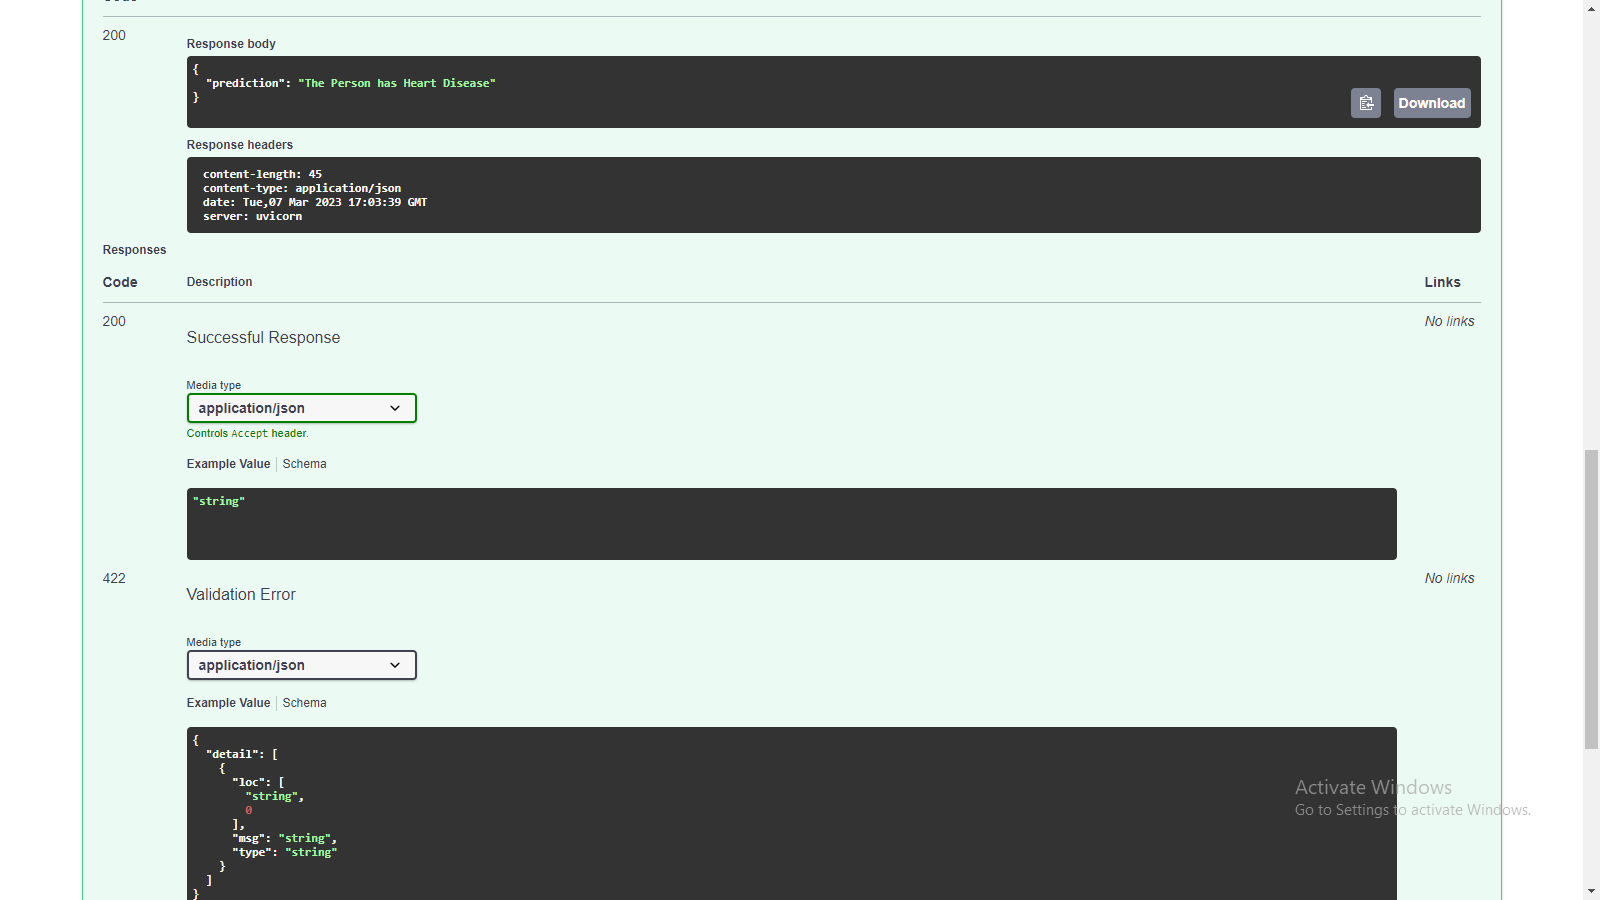
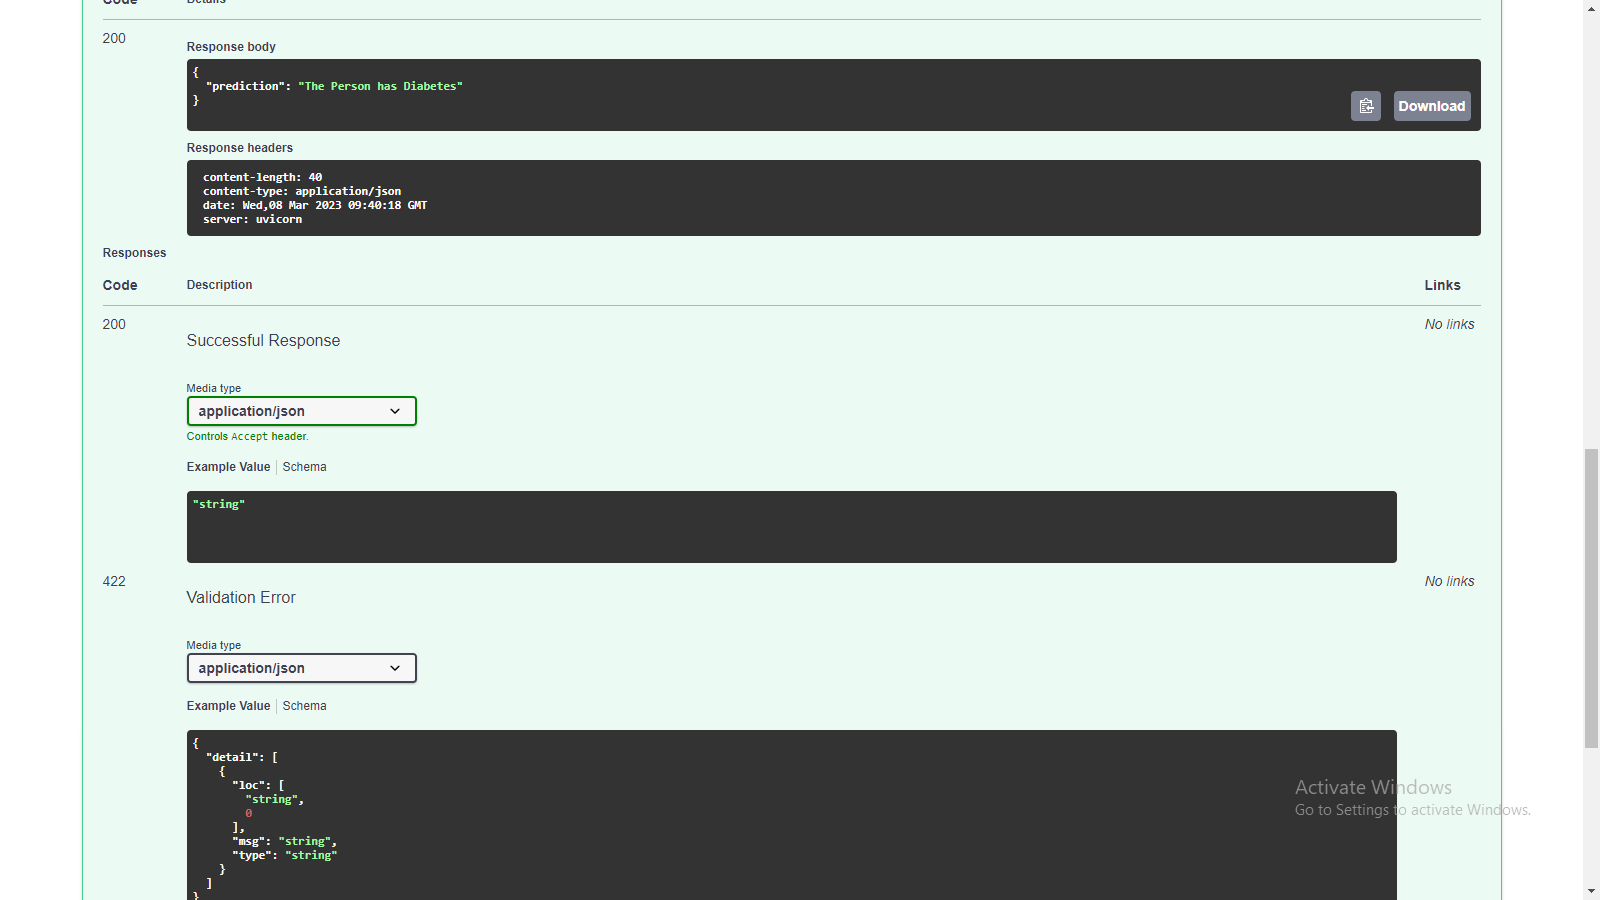
new Images added

diff --git a/PICKEL/app.py b/PICKEL/app.py
@@ -13,7 +13,7 @@ classifier=pickle.load(pickle_in)
 # 3. Index route, opens automatically on http://127.0.0.1:8000
 @app.get('/')
 def index():
-    return {'message': 'Hello, Welcome to the prediction page'}
+    return {'message': 'Hello, Welcome to the Diabetes prediction page'}
 
 # 4. Route with a single parameter, returns the parameter within a message
 #    Located at: http://127.0.0.1:8000/AnyNameHere
@@ -22,9 +22,9 @@ def index():
 #     return {'Welcome To medical domain ': f'{name}'}
 
 # 3. Expose the prediction functionality, make a prediction from the passed
-#    JSON data and return the predicted Bank Note with the confidence
+#    JSON data and return the predicted diabetes with the confidence
 @app.post('/predict')
-def heartdisease(data:diabetesPrediction):
+def Diabetes(data:diabetesPrediction):
     data = data.dict()
     Pregnancies = data['Pregnancies']
     Glucose = data['Glucose']
@@ -34,7 +34,7 @@ def heartdisease(data:diabetesPrediction):
     BMI = data['BMI']
     DiabetesPedigreeFunction = data['DiabetesPedigreeFunction']
     Age = data['Age']
-   # print(classifier.predict([[variance,skewness,curtosis,entropy]]))
+   # print(classifier.predict([[Pregnancies,Glucose,BloodPressure,SkinThickness,Insulin,BMI,DiabetesPedigreeFunction,Age]]))
     prediction = classifier.predict([[Pregnancies,Glucose,BloodPressure,SkinThickness,Insulin,BMI,DiabetesPedigreeFunction,Age]])
     if(prediction[0]==1):
         prediction= "The Person has Diabetes"

diff --git a/PICKEL/diabetes.py b/PICKEL/diabetes.py
@@ -1,5 +1,5 @@
 from pydantic import BaseModel
-# 2. Class which describes Bank Notes measurements
+# 2. Class which describes Diabetes measurements
 class diabetesPrediction(BaseModel):
     Pregnancies: int 
     Glucose: int
